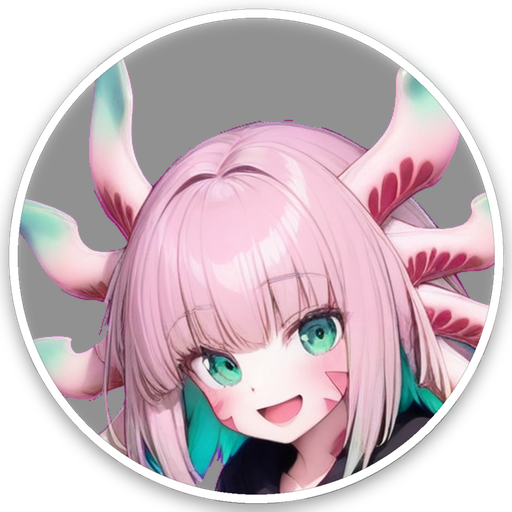
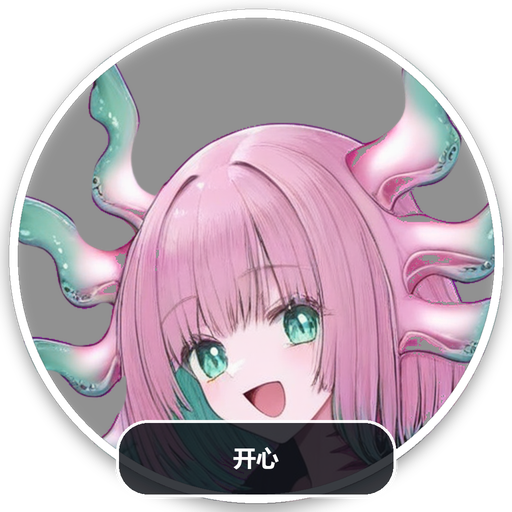
表情包：固定种子保形象一致，图上印名字
- 12 张改用同一张 init + 同一个 seed 生成：除表情外，头发、外鳃、服装逐像素
  一致；抠图复用同一张 alpha，圆形轮廓与白环也一致。
- 每张底部加中文名字标签（深色药丸 + 白字）；面板缩略图下再显示一行名字，
  6 列两行全部可见。
- 表情覆盖：开心/好奇/思考/困/惊讶/无语/抱歉/得意/害羞/加油/晚安/平静。
- README 补上「图上与面板都有名字」的说明。

七条本地腿全绿。

diff --git a/src/axo/ui/web/css/app.css b/src/axo/ui/web/css/app.css
@@ -1015,7 +1015,7 @@ body::before {
   left: 50%;
   bottom: 84px;
   transform: translateX(-50%);
-  width: min(560px, calc(100% - 32px));
+  width: min(680px, calc(100% - 32px));
   max-height: 46vh;
   overflow-y: auto;
   padding: 10px;
@@ -1031,15 +1031,17 @@ body::before {
 
 #sticker-grid {
   display: grid;
-  grid-template-columns: repeat(auto-fill, minmax(88px, 1fr));
+  grid-template-columns: repeat(auto-fill, minmax(96px, 1fr));
   gap: 8px;
 }
 
 .sticker-item {
-  display: block;
+  display: flex;
+  flex-direction: column;
+  align-items: center;
+  gap: 3px;
   width: 100%;
-  aspect-ratio: 1 / 1;
-  padding: 6px;
+  padding: 6px 6px 5px;
   border: 1px solid transparent;
   border-radius: 12px;
   background: color-mix(in srgb, var(--bg-bubble-user) 55%, transparent);
@@ -1058,9 +1060,15 @@ body::before {
 
 .sticker-item img {
   width: 100%;
-  height: 100%;
+  aspect-ratio: 1 / 1;
   object-fit: contain;
   pointer-events: none;
+}
+
+.sticker-name {
+  font-size: 12px;
+  line-height: 1.2;
+  color: var(--fg);
 }
 
 #sticker-empty {

diff --git a/src/axo/ui/web/js/app.js b/src/axo/ui/web/js/app.js
@@ -520,6 +520,11 @@
       image.src = item.uri || "";
       image.alt = item.name || "表情包";
       button.appendChild(image);
+      // 图上已经印了名字；缩略图只有 ~90px 时那行字太小，这里再给一行。
+      var label = document.createElement("span");
+      label.className = "sticker-name";
+      label.textContent = item.name || "";
+      button.appendChild(label);
       button.addEventListener("click", function () {
         if (!bridge || busy || personaPending || channelDead) return;
         hideStickerPanel();

diff --git a/README.md b/README.md
@@ -360,7 +360,8 @@ uv run python -m axo.ui.app
   「有这么个文件、多大」，不硬读。
 * **表情包**：她可以在一轮回答里顺手贴一张图（玩闹、安慰、道谢的时候），你也可以在输入框
   左边的「表情」面板里挑一张发给她。默认带 12 张（开心、好奇、思考、困、惊讶、无语、抱歉、
-  得意、害羞、加油、晚安、平静），首次启动时复制进数据根下的 `stickers/`。**你放什么她就
+  得意、害羞、加油、晚安、平静），每张图上印着名字、面板里也有一行名字，首次启动时
+  复制进数据根下的 `stickers/`。**你放什么她就
   能用什么**：面板里「添加图片…」支持一次选多张，也可以直接把图片丢进 `stickers/`；一个
   文件一个、文件名就是名字。那张图会**出现在对话里**（收进逐字稿，回看时还在），而它
   **不会进上下文**：她知道「我发过一张开心的」，但不会把图再读一遍。目录空着的时候，那个
